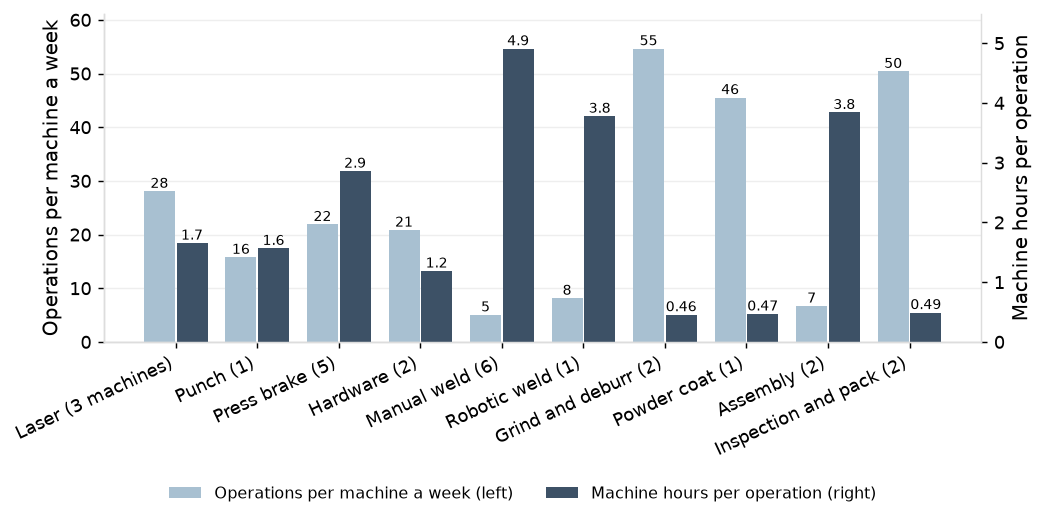
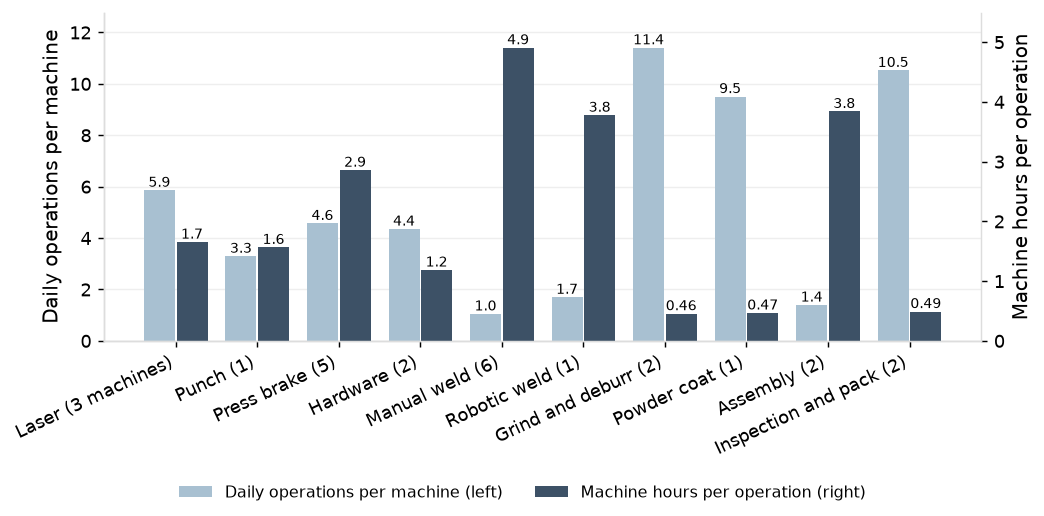
Capacity report: Section 1 wording, daily floor activity and the utilization trend layout

diff --git a/docs/reports/capacity_constraints_and_setups.html b/docs/reports/capacity_constraints_and_setups.html
@@ -57,20 +57,20 @@ nav.toc a.sub { font-size: 12px; padding-left: 22px; }
 <body><div class="page-header"><h1>Report: Capacity, Constraints and Setups</h1><div class="sub">Created by Brian Davis, 2026</div></div>
 <div class="layout"><nav class="toc"><div class="toc-title">Contents</div><a href="#f1">1. Capacity Across the Shop</a><a href="#f2">2. Load and Queue Time</a><a href="#f3">3. Setups Against Standard</a><a href="#f4">4. Run Standards</a><a href="#appendix">Appendix</a></nav>
 <main class="content"><h2 id='f1'>1. Capacity Across the Shop</h2>
-<p>The shop's floor consists of ten work centers and 25 machines. The floor activity (operations per machine a week and hours per operation) in routing order is shown below. The grind and deburr, inspection and pack, and powder coat stations run the highest number of operations per machine a week while averaging the shortest amount of time per operation (0.46 to 0.49 hours), and the manual weld bays, assembly and the robotic weld cell run the fewest operations while averaging the longest time (3.8 to 4.9 hours).</p>
-<div class='chart-title'>Floor Activity by Work Center, 2025</div><img alt="Floor Activity by Work Center, 2025" src="../figures/capacity_floor_activity.png?v=7b83e9b6">
-<p>The press brakes consistently run at the highest utilization of any work center, followed by the robotic weld cell.</p>
-<div class='chart-title'>Average monthly utilization by work center, 2023 to 2025</div><img alt="Average monthly utilization by work center, 2023 to 2025" src="../figures/capacity_utilization_trend.png?v=43a5c9c1">
-<p>In 2025, the press brakes ran at 91% utilization against 97% uptime, and this 6-point gap was the smallest production capacity buffer of any work center. The robotic weld cell ran at 83% utilization against 97% uptime, a 14-point buffer. Running this close to capacity leaves the brakes and the weld cell fewer idle hours to absorb work, compared to the other work stations.</p>
-<p>Uptime was 96% to 98% at every work center; for purposes of this report, uptime treats setup as running time, not downtime. See Appendix Table <a href='#t1'>1</a> for additional detail.</p>
+<p>The shop's floor consists of 25 machines across ten work centers. The floor activity (daily operations per machine and hours per operation) in routing order is shown below.</p>
+<div class='chart-title'>Floor Activity by Work Center, 2025</div><img alt="Floor Activity by Work Center, 2025" src="../figures/capacity_floor_activity.png?v=9bbcae61">
+<p>The press brakes consistently run at the highest utilization of any work center (average of 83% 2023-2025), followed by the robotic weld cell (71%). Released work grew 20% from 2023 to 2025 (4,315 to 5,157 jobs a year; brake standard hours up 21%) across the same set of machines and shifts, accounting for the general positive trend in utilization over the past three years.</p>
+<div class='chart-title'>Average monthly utilization by work center, 2023 to 2025</div><img alt="Average monthly utilization by work center, 2023 to 2025" src="../figures/capacity_utilization_trend.png?v=d867d6bd">
+<h3 id='f1_1'>Capacity Constraints</h3>
+<p>In 2025, the press brakes ran at 91% average utilization and the robotic weld cell at 83%. Against each station's 97% uptime, the average production capacity buffer was only 6 and 14 points, the smallest of all work centers. See Appendix Table <a href='#t1'>1</a> for additional detail.</p>
 <div class='chart-title'>Utilization and Machine Uptime by Work Center</div><img alt="Utilization and Machine Uptime by Work Center" src="../figures/constraint_utilization_uptime.png?v=398f0550">
 <p>With so little buffer, an ordinary heavy week can take the brakes and the weld cell to maximum utilization: they ran at or above 95% utilization in 46% and 38% of weeks in 2025, far more often than any other work center. See Appendix Table <a href='#t2'>2</a> for additional detail.</p>
 <div class='chart-title'>Share of weeks at or above 95% utilization, 2025</div><img alt="Share of weeks at or above 95% utilization, 2025" src="../figures/capacity_hot_week_share.png?v=5980e1e8">
-<p>Weeks at maximum utilization result in higher queue times. Across every work center that reached above 95% utilization in a week, average queue time was sharply higher than in the other weeks. The gap is smallest at the press brakes (2.4 days against 1.7, 1.4x) not because their wait is least sensitive to load but because their other weeks are also heavily loaded, averaging 78% utilization from 2023 to 2025, so the comparison is narrower than other work centers.</p>
+<p>At each station, average queue time was sharply higher when it was operating near maximum utilization compared to the other weeks of the year. The gap is smallest at the press brakes (2.4 days against 1.7, 1.4x) not because their wait is least sensitive to load but because their other weeks are also heavily loaded, so the comparison is narrower than other work centers. <a href='#f2'>Section 2</a> lays out the sensitivity of queue time against load at the press brakes and robotic weld stations.</p>
 <div class='chart-title'>Queue Time in Weeks at or Above 95% Utilization vs. Other Weeks, 2023 to 2025</div><img alt="Queue Time in Weeks at or Above 95% Utilization vs. Other Weeks, 2023 to 2025" src="../figures/capacity_queue_in_hot_weeks_year.png?v=cd2298d2">
 <p>Throughout 2025, jobs spent 36,318 days waiting at a work center after their first operation. The press brake station accounted for 56% of those days, which is a function of its consistently high utilization, as well as its volume of operations. There were nearly 5,700 brake operations in 2025. The robotic weld cell, which saw similar queue times to the press brakes (3.64 days per operation against 3.54), accounted for less than 5% of queue days, because it saw only 423 operations in 2025.</p>
 <div class='chart-title'>Share of queue days by work center, 2025</div><img alt="Share of queue days by work center, 2025" src="../figures/capacity_share_of_queue_days.png?v=cc48b974">
-<p>The press brakes are therefore the shop's constraint on three counts: the highest utilization with the least buffer, the most weeks at the ceiling, and more than half of all queue days. The robotic weld cell shares the first two and constrains the enclosure work that crosses it. <a href='#f2'>Section 2</a> examines how queue time builds at these two work centers and what that makes the levers; the other work centers, which are either rarely full or whose waits are set by the dispatch list rather than by load, are covered where they bear on it.</p>
+<p>The press brakes are therefore the shop's primary constraint on three counts: the highest utilization with the least buffer, the most weeks spent at maximum utilization, and more than half of all queue days. The robotic weld cell shares the first two and constrains the enclosure work that crosses it. The next section examines these stations in more detail.</p>
 <h2 id='f2'>2. Load and Queue Time</h2>
 <p><a href='#f1'>Section 1</a> showed that queue time rises when a work center is full and that the press brakes and the robotic weld cell are the two that are full most often and carry the waiting that costs the shop days. This section shows how queue time builds at each as load rises, and what that makes the lever. The curve is the queue time expected at each level of utilization for the number of machines at the work center, fitted on rolling 13-week windows from 2023 to 2025 and drawn only over the range of utilization the work center has run at in those windows; for the brakes the fit explains 45% of the variation in the windowed queue with a rank correlation of 0.88, while a single week's queue carries the backlog of the weeks before it, which is why the fit is made on windows rather than weeks.</p>
 <h3 id='f2_1'>The press brakes</h3>

diff --git a/docs/index.html b/docs/index.html
@@ -34,5 +34,5 @@ nav.toc a { color: var(--accent); text-decoration: none; margin-right: 14px; }
 </style></head>
 <body><div class="page">
 <header class="doc"><div class="kicker">Deliverables</div><h1>Operations analytics</h1><div class="meta">Custom sheet-metal fabrication job shop, about 120 employees, one plant.<br>Eight improvement projects and an operations dashboard on the shop's records from January 2023 to December 2025. Sources: ERP, shop-floor data collection, QMS, maintenance and HR exports (batch 20261003T152921Z-20250101).</div><div class="credit">Created by Brian Davis, 2026</div></header>
-<table class="data"><thead><tr><th>Report</th><th>Question</th><th>Finding</th><th>Deliverable</th></tr></thead><tbody><tr><td class="">Flow and On-time Delivery</td><td class="">Where does the lead time go, and does the floor's WIP match the quoted lead times? What makes jobs late, and do the shop's late-reason codes say so?</td><td class="">Queue at the brakes is 28% of lead time and the stage that separates late jobs from on-time jobs (6.98 days against 2.71); the median job ships in 11.2 working days against an average quoted lead time of 12.4, 9.2 in Q2-Q4. In 2025, jobs waiting at work centers (i.e., queue constraints) accounted for 44% of the 4,647 lost days, while jobs that were released late accounted for 17%, and jobs that waited on material and outside processing accounted for 7% and 3%, respectively.</td><td class=""><a href='reports/lead_time_and_late_jobs.html'>Report</a></td></tr><tr><td class="">Capacity, Constraints and Setups</td><td class="">Which work centers run hot, and how do their queues respond to load? What do setups cost at the brakes, and where is the overrun?</td><td class="">In 2025, the press brakes ran at 91% utilization against 97% uptime, and this 6-point gap was the smallest production capacity buffer of any work center. The robotic weld cell ran at 83% utilization against 97% uptime, a 14-point buffer. Brake setups ran 6,077 hours against 4,235 standard in 2025: 1,842 hours over, 35 a week, 11% of brake machine time.</td><td class=""><a href='reports/capacity_constraints_and_setups.html'>Report</a></td></tr><tr><td class="">Options Tested</td><td class="">Do release control and dispatch rules help, and what does? Do the capital options pay back?</td><td class="">A WIP cap and dispatch rules do not help; the setup program, a second shift on the robotic weld cell and planned Saturdays from November through February take the year to 88.0% on time, up 6.0 points (5.0 to 6.9), and Q2-Q4 to 91.8%. On overtime and labor alone no option pays back within the 7-year horizon, and the no-capital package is net negative ($70,000 a year, the weld cell's second shift). With half the released brake hours sold, the robotic cell pays back in 1.6 years, the tool changer on B3 in 3.9, the laser tower not at all.</td><td class=""><a href='reports/options_tested.html'>Report</a></td></tr><tr><td class="">Quoting and Early Warning from Load</td><td class="">What lead time should be quoted, and what wins quotes? Which weekly measures move before on-time delivery does?</td><td class="">The fixed quote is met on 53.0% of non-rush jobs for the year and 70.5% in Q2-Q4; a quote by routing class and brake backlog at release, never below the fixed quote, is met on 67.0% and 82.1% out of sample and lengthens 43.6% and 33.9% of promised lead times. The on-time start rate correlates +0.62 with on-time delivery 1 week later, against a 95th percentile of +0.24 on shuffled series and +0.21 on shifted series. It moved before all four declines in on-time delivery; no other weekly measure leads in ordinary weeks.</td><td class=""><a href='reports/quoting_and_early_warning.html'>Report</a></td></tr></tbody></table><p><a href='dashboard/index.html'>Operations dashboard</a></p>
+<table class="data"><thead><tr><th>Report</th><th>Question</th><th>Finding</th><th>Deliverable</th></tr></thead><tbody><tr><td class="">Flow and On-time Delivery</td><td class="">Where does the lead time go, and does the floor's WIP match the quoted lead times? What makes jobs late, and do the shop's late-reason codes say so?</td><td class="">Queue at the brakes is 28% of lead time and the stage that separates late jobs from on-time jobs (6.98 days against 2.71); the median job ships in 11.2 working days against an average quoted lead time of 12.4, 9.2 in Q2-Q4. In 2025, jobs waiting at work centers (i.e., queue constraints) accounted for 44% of the 4,647 lost days, while jobs that were released late accounted for 17%, and jobs that waited on material and outside processing accounted for 7% and 3%, respectively.</td><td class=""><a href='reports/lead_time_and_late_jobs.html'>Report</a></td></tr><tr><td class="">Capacity, Constraints and Setups</td><td class="">Which work centers run hot, and how do their queues respond to load? What do setups cost at the brakes, and where is the overrun?</td><td class="">In 2025, the press brakes ran at 91% average utilization and the robotic weld cell at 83%. Against each station's 97% uptime, the average production capacity buffer was only 6 and 14 points, the smallest of all work centers. Brake setups ran 6,077 hours against 4,235 standard in 2025: 1,842 hours over, 35 a week, 11% of brake machine time.</td><td class=""><a href='reports/capacity_constraints_and_setups.html'>Report</a></td></tr><tr><td class="">Options Tested</td><td class="">Do release control and dispatch rules help, and what does? Do the capital options pay back?</td><td class="">A WIP cap and dispatch rules do not help; the setup program, a second shift on the robotic weld cell and planned Saturdays from November through February take the year to 88.0% on time, up 6.0 points (5.0 to 6.9), and Q2-Q4 to 91.8%. On overtime and labor alone no option pays back within the 7-year horizon, and the no-capital package is net negative ($70,000 a year, the weld cell's second shift). With half the released brake hours sold, the robotic cell pays back in 1.6 years, the tool changer on B3 in 3.9, the laser tower not at all.</td><td class=""><a href='reports/options_tested.html'>Report</a></td></tr><tr><td class="">Quoting and Early Warning from Load</td><td class="">What lead time should be quoted, and what wins quotes? Which weekly measures move before on-time delivery does?</td><td class="">The fixed quote is met on 53.0% of non-rush jobs for the year and 70.5% in Q2-Q4; a quote by routing class and brake backlog at release, never below the fixed quote, is met on 67.0% and 82.1% out of sample and lengthens 43.6% and 33.9% of promised lead times. The on-time start rate correlates +0.62 with on-time delivery 1 week later, against a 95th percentile of +0.24 on shuffled series and +0.21 on shifted series. It moved before all four declines in on-time delivery; no other weekly measure leads in ordinary weeks.</td><td class=""><a href='reports/quoting_and_early_warning.html'>Report</a></td></tr></tbody></table><p><a href='dashboard/index.html'>Operations dashboard</a></p>
 </div></body></html>

diff --git a/analytics/reports/capacity_constraints_and_setups.py b/analytics/reports/capacity_constraints_and_setups.py
@@ -45,6 +45,8 @@ ROUTING = ["laser", "punch", "press_brake", "hardware", "weld", "robotic_weld", 
 ACTIVITY = pd.DataFrame({"operations": X["ops"].groupby("work_center").size(), "hours": C.UY["machine"], "machines": C.UY["machines"]})
 ACTIVITY["ops_per_week"] = ACTIVITY["operations"] / SA.WEEKS
 ACTIVITY["ops_per_machine_week"] = ACTIVITY["ops_per_week"] / ACTIVITY["machines"]
+ACTIVITY["weekdays"] = X["uw"][X["uw"]["week_year"] == YEAR].groupby("work_center")["weekdays"].sum()
+ACTIVITY["ops_per_machine_day"] = ACTIVITY["operations"] / ACTIVITY["machines"] / ACTIVITY["weekdays"]
 ACTIVITY["hours_per_operation"] = ACTIVITY["hours"] / ACTIVITY["operations"]
 QUEUE_AXIS = "Queue time, working days per operation"
 P = lambda x: pct(x, 0)
@@ -74,21 +76,21 @@ def darker(color, by=0.62):
 
 
 def fig_activity():
-    """Operations per machine a week (left axis) and machine hours per operation (right axis), work centers in routing order."""
+    """Operations per machine a working day (left axis) and machine hours per operation (right axis), work centers in routing order."""
     d = ACTIVITY.loc[ROUTING]
     x = np.arange(len(d))
     f, ax = fig(h=4.0)
     ax2 = ax.twinx()
-    ops, hrs = sig(d["ops_per_machine_week"].to_numpy(dtype=float)), sig(d["hours_per_operation"].to_numpy(dtype=float))
-    ax.bar(x - 0.2, ops, width=0.38, color=LIGHT_BLUE, label="Operations per machine a week (left)")
+    ops, hrs = sig(d["ops_per_machine_day"].to_numpy(dtype=float)), sig(d["hours_per_operation"].to_numpy(dtype=float))
+    ax.bar(x - 0.2, ops, width=0.38, color=LIGHT_BLUE, label="Daily operations per machine (left)")
     ax2.bar(x + 0.2, hrs, width=0.38, color=BRAND_BLUE, label="Machine hours per operation (right)")
     for xi, vi in zip(x, ops):
-        ax.text(xi - 0.2, vi, f"{vi:.0f}", ha="center", va="bottom", fontsize=8)
+        ax.text(xi - 0.2, vi, f"{vi:.1f}", ha="center", va="bottom", fontsize=8)
     for xi, vi in zip(x, hrs):
         ax2.text(xi + 0.2, vi, f"{vi:.2f}" if vi < 1 else f"{vi:.1f}", ha="center", va="bottom", fontsize=8)
     ax.set_xticks(x)
     ax.set_xticklabels([f"{WC[w]} ({int(d.loc[w, 'machines'])}{' machines' if w == 'laser' else ''})" for w in d.index], rotation=25, ha="right")
-    ax.set_ylabel("Operations per machine a week")
+    ax.set_ylabel("Daily operations per machine")
     ax2.set_ylabel("Machine hours per operation")
     ax.set_ylim(0, float(ops.max()) * 1.12)
     ax2.set_ylim(0, float(hrs.max()) * 1.12)
@@ -102,7 +104,7 @@ def fig_activity():
 
 
 def fig_utilization_trend():
-    """Monthly utilization for each work center as a three-month trailing average, each line named where it ends."""
+    """Monthly utilization for each work center as a three-month trailing average, each line named beside the plot where it ends."""
     w = X["uw"].assign(month=lambda d: (d["week_start"] + pd.Timedelta(days=3)).dt.to_period("M"))
     g = w.groupby(["month", "work_center"])[["machine_hours", "scheduled_hours", "downtime_hours"]].sum().unstack()
     # hours pooled over the month and the two before it, so each point is the utilization of a quarter-long window ending in that month
@@ -110,26 +112,26 @@ def fig_utilization_trend():
     d = (r["machine_hours"] / (r["scheduled_hours"] - r["downtime_hours"]) * 100)
     d = d[d.index >= pd.Period("2023-01")].dropna()
     x = np.arange(len(d))
-    f, ax = fig(h=4.6)
+    f, ax = fig(h=3.9)
     others = [c for c in C.UY.sort_values("utilization", ascending=False).index if c not in LEAD_TWO]
     color = dict(zip(others, TREND_COLORS), press_brake=BRAND_BLUE, robotic_weld=WELD_CELL)
     for c in others + LEAD_TWO:
         ax.plot(x, sig(d[c].to_numpy(dtype=float)), color=color[c], linewidth=2.4 if c in LEAD_TWO else 1.6, zorder=3 if c in LEAD_TWO else 2)
-    # the names at the right, moved apart where two lines end close together
+    ax.set_xlim(-0.6, x[-1] + 0.4)
+    ax.set_ylim(30, 100)
+    # the names sit to the right of the plot area, clear of the gridlines, moved apart where two lines end close together
     ends = d.iloc[-1].sort_values()
-    placed, gap = [], 3.0
+    placed, gap = [], 3.6
     for c, v in ends.items():
         y = float(v) if not placed else max(float(v), placed[-1] + gap)
         placed.append(y)
-        ax.text(x[-1] + 0.5, y, f"{WC[c]}, {v:.0f}%", ha="left", va="center", fontsize=8.5, color=color[c] if c in LEAD_TWO else darker(color[c]),
-                fontweight="bold" if c in LEAD_TWO else None)
-    first = [k for k in x if d.index[k].month in (1, 7)]
-    ax.set_xticks(first)
-    ax.set_xticklabels([d.index[k].strftime("%b %Y") for k in first])
-    ax.set_xlim(-0.6, x[-1] + 9.5)
-    ax.set_ylim(20, 100)
+        ax.text(x[-1] + 0.9, y, f"{WC[c]}, {v:.0f}%", ha="left", va="center", fontsize=8.5, color=color[c] if c in LEAD_TWO else darker(color[c]),
+                fontweight="bold" if c in LEAD_TWO else None, clip_on=False)
+    ticks = [k for k in x if d.index[k].month in (1, 7)] + [int(x[-1])]
+    ax.set_xticks(ticks)
+    ax.set_xticklabels([d.index[k].strftime("%b %Y") for k in ticks])
     ax.yaxis.set_major_formatter(lambda t, _: f"{t:.0f}%")
-    f.tight_layout()
+    f.subplots_adjust(left=0.07, right=0.80, top=0.97, bottom=0.12)
     return save(f, "capacity_utilization_trend", "Average monthly utilization by work center, 2023 to 2025")
 
 
@@ -452,27 +454,27 @@ def build():
     # 1 ── capacity across the shop
     b.append("<h2 id='f1'>1. Capacity Across the Shop</h2>")
     act = ACTIVITY
-    assert list(UY["utilization"].sort_values(ascending=False).index[:2]) == LEAD_TWO
-    busy, slow = act.sort_values("ops_per_machine_week", ascending=False).index[:3], act.sort_values("ops_per_machine_week").index[:3]
-    assert set(busy) == set(act.sort_values("hours_per_operation").index[:3]) == {"grind_deburr", "inspection_pack", "powder_coat"}
-    assert set(slow) == set(act.sort_values("hours_per_operation", ascending=False).index[:3]) == {"weld", "assembly", "robotic_weld"}
-    b.append(f"<p>The shop's floor consists of ten work centers and {n0(act['machines'].sum())} machines. The floor activity (operations per machine a week and "
-             f"hours per operation) in routing order is shown below. The grind and deburr, inspection and pack, and powder coat stations run the highest number of "
-             f"operations per machine a week while averaging the shortest amount of time per operation "
-             f"({rng(act.loc[busy, 'hours_per_operation'].min(), act.loc[busy, 'hours_per_operation'].max())} hours), and the manual weld bays, assembly and the "
-             f"robotic weld cell run the fewest operations while averaging the longest time "
-             f"({rng(act.loc[slow, 'hours_per_operation'].min(), act.loc[slow, 'hours_per_operation'].max(), d1)} hours).</p>")
+    b.append(f"<p>The shop's floor consists of {n0(act['machines'].sum())} machines across ten work centers. The floor activity (daily operations per machine and "
+             f"hours per operation) in routing order is shown below.</p>")
     b.append(chart(f"Floor Activity by Work Center, {YEAR}", fig_activity()))
-    b.append("<p>The press brakes consistently run at the highest utilization of any work center, followed by the robotic weld cell.</p>")
+    all_years = X["uw"][X["uw"]["week_year"].between(YEAR - 2, YEAR)]
+    avg = {w: SC.pooled_utilization(all_years[all_years["work_center"] == w]) for w in UY.index}
+    assert sorted(avg, key=avg.get, reverse=True)[:2] == LEAD_TWO
+    rel = q("select year(quarter_start) as y, sum(releases) as releases, sum(brake_std_hours) as brake_hours "
+                                           "from marts.mart_releases_by_quarter group by 1 order by 1").set_index("y")
+    b.append(f"<p>The press brakes consistently run at the highest utilization of any work center (average of {P(avg['press_brake'])} 2023-2025), followed by the "
+             f"robotic weld cell ({P(avg['robotic_weld'])}). Released work grew {P(rel.loc[YEAR, 'releases'] / rel.loc[YEAR - 2, 'releases'] - 1)} from {YEAR - 2} to "
+             f"{YEAR} ({n0(rel.loc[YEAR - 2, 'releases'])} to {n0(rel.loc[YEAR, 'releases'])} jobs a year; brake standard hours up "
+             f"{P(rel.loc[YEAR, 'brake_hours'] / rel.loc[YEAR - 2, 'brake_hours'] - 1)}) across the same set of machines and shifts, accounting for the general "
+             f"positive trend in utilization over the past three years.</p>")
     b.append(chart("Average monthly utilization by work center, 2023 to 2025", fig_utilization_trend()))
+
+    b.append("<h3 id='f1_1'>Capacity Constraints</h3>")
     gap = round(UY["uptime"] * 100) - round(UY["utilization"] * 100)
-    assert gap.idxmin() == "press_brake"
-    b.append(f"<p>In {YEAR}, the press brakes ran at {P(UY.loc['press_brake', 'utilization'])} utilization against {P(UY.loc['press_brake', 'uptime'])} uptime, and "
-             f"this {gap['press_brake']:.0f}-point gap was the smallest production capacity buffer of any work center. The robotic weld cell ran at "
-             f"{P(UY.loc['robotic_weld', 'utilization'])} utilization against {P(UY.loc['robotic_weld', 'uptime'])} uptime, a {gap['robotic_weld']:.0f}-point buffer. "
-             f"Running this close to capacity leaves the brakes and the weld cell fewer idle hours to absorb work, compared to the other work stations.</p>")
-    b.append(f"<p>Uptime was {P(UY['uptime'].min())} to {P(UY['uptime'].max())} at every work center; for purposes of this report, uptime treats setup as running "
-             f"time, not downtime. {T.see('util')}</p>")
+    assert list(gap.sort_values().index[:2]) == LEAD_TWO and P(UY.loc["press_brake", "uptime"]) == P(UY.loc["robotic_weld", "uptime"])
+    b.append(f"<p>In {YEAR}, the press brakes ran at {P(UY.loc['press_brake', 'utilization'])} average utilization and the robotic weld cell at "
+             f"{P(UY.loc['robotic_weld', 'utilization'])}. Against each station's {P(UY.loc['press_brake', 'uptime'])} uptime, the average production capacity buffer "
+             f"was only {gap['press_brake']:.0f} and {gap['robotic_weld']:.0f} points, the smallest of all work centers. {T.see('util')}</p>")
     b.append(titled(C.fig_util(), "Utilization and Machine Uptime by Work Center"))
     hot_share = (HY["hot_weeks"] / HY["weeks"]).sort_values(ascending=False)
     assert list(hot_share.index[:2]) == LEAD_TWO and hot_share.iloc[1] > 1.5 * hot_share.iloc[2]
@@ -485,11 +487,11 @@ def build():
     rest_of = X["uw"][X["uw"]["utilization"] < SC.HOT]
     other_load = {w: SC.pooled_utilization(rest_of[rest_of["work_center"] == w]) for w in hall.index}
     assert max(other_load, key=other_load.get) == "press_brake"
-    b.append(f"<p>Weeks at maximum utilization result in higher queue times. Across every work center that reached above 95% utilization in a week, average queue "
-             f"time was sharply higher than in the other weeks. The gap is smallest at the press brakes ({d1(hall.loc['press_brake', 'queue_hot'])} days against "
-             f"{d1(hall.loc['press_brake', 'queue_other'])}, {rise['press_brake']:.1f}x) not because their wait is least sensitive to load but because their other "
-             f"weeks are also heavily loaded, averaging {P(other_load['press_brake'])} utilization from 2023 to 2025, so the comparison is narrower than other work "
-             f"centers.</p>")
+    b.append(f"<p>At each station, average queue time was sharply higher when it was operating near maximum utilization compared to the other weeks of the year. The "
+             f"gap is smallest at the press brakes ({d1(hall.loc['press_brake', 'queue_hot'])} days against {d1(hall.loc['press_brake', 'queue_other'])}, "
+             f"{rise['press_brake']:.1f}x) not because their wait is least sensitive to load but because their other weeks are also heavily loaded, so the comparison "
+             f"is narrower than other work centers. <a href='#f2'>Section 2</a> lays out the sensitivity of queue time against load at the press brakes and robotic "
+             f"weld stations.</p>")
     b.append(chart("Queue Time in Weeks at or Above 95% Utilization vs. Other Weeks, 2023 to 2025", fig_hot_year()))
     assert QDAYS.index[0] == "press_brake" and QDAYS.loc["robotic_weld", "share_of_queue"] < 0.05 and QDAYS.loc["press_brake", "share_of_queue"] > 0.5
     b.append(f"<p>Throughout {YEAR}, jobs spent {n0(QDAYS['queue_days'].sum())} days waiting at a work center after their first operation. The press brake station "
@@ -499,10 +501,9 @@ def build():
              f"{d2(PY.loc['press_brake', 'queue_measured'])}), accounted for less than 5% of queue days, because it saw only "
              f"{n0(QDAYS.loc['robotic_weld', 'operations'])} operations in {YEAR}.</p>")
     b.append(chart(f"Share of queue days by work center, {YEAR}", fig_queue_days()))
-    b.append("<p>The press brakes are therefore the shop's constraint on three counts: the highest utilization with the least buffer, the most weeks at the ceiling, "
-             "and more than half of all queue days. The robotic weld cell shares the first two and constrains the enclosure work that crosses it. "
-             "<a href='#f2'>Section 2</a> examines how queue time builds at these two work centers and what that makes the levers; the other work centers, which are "
-             "either rarely full or whose waits are set by the dispatch list rather than by load, are covered where they bear on it.</p>")
+    b.append("<p>The press brakes are therefore the shop's primary constraint on three counts: the highest utilization with the least buffer, the most weeks spent at "
+             "maximum utilization, and more than half of all queue days. The robotic weld cell shares the first two and constrains the enclosure work that crosses "
+             "it. The next section examines these stations in more detail.</p>")
 
     # 2 ── load and queue time
     b.append("<h2 id='f2'>2. Load and Queue Time</h2>")

diff --git a/analytics/site.py b/analytics/site.py
@@ -37,7 +37,7 @@ def _lead_time():
 
 
 def _capacity():
-    load = re.search(r"In 2025, the press brakes ran at .*? a \d+-point buffer\.", section_text(CAPACITY, "f1")).group(0)
+    load = re.search(r"In 2025, the press brakes ran at .*? the smallest of all work centers\.", section_text(CAPACITY, "f1_1")).group(0)
     hours, standard, over, week, share = re.search(r"the brakes ran ([\d,]+) hours against ([\d,]+) standard, ([\d,]+) over, ([\d,]+) a week, (\d+%) of brake machine time",
                                                    section_text(CAPACITY, "f3")).groups()
     return f"{load} Brake setups ran {hours} hours against {standard} standard in 2025: {over} hours over, {week} a week, {share} of brake machine time."

diff --git a/README.md b/README.md
@@ -23,7 +23,7 @@ The engagement put the ERP order and quote records beside the MES operation time
 | Report | Question | Finding | Deliverable |
 |---|---|---|---|
 | Flow and On-time Delivery | Where does the lead time go, and does the floor's WIP match the quoted lead times? What makes jobs late, and do the shop's late-reason codes say so? | Queue at the brakes is 28% of lead time and the stage that separates late jobs from on-time jobs (6.98 days against 2.71); the median job ships in 11.2 working days against an average quoted lead time of 12.4, 9.2 in Q2-Q4. In 2025, jobs waiting at work centers (i.e., queue constraints) accounted for 44% of the 4,647 lost days, while jobs that were released late accounted for 17%, and jobs that waited on material and outside processing accounted for 7% and 3%, respectively. | [report](https://brimsystems.github.io/mfg-operations-analytics/docs/reports/lead_time_and_late_jobs.html) |
-| Capacity, Constraints and Setups | Which work centers run hot, and how do their queues respond to load? What do setups cost at the brakes, and where is the overrun? | In 2025, the press brakes ran at 91% utilization against 97% uptime, and this 6-point gap was the smallest production capacity buffer of any work center. The robotic weld cell ran at 83% utilization against 97% uptime, a 14-point buffer. Brake setups ran 6,077 hours against 4,235 standard in 2025: 1,842 hours over, 35 a week, 11% of brake machine time. | [report](https://brimsystems.github.io/mfg-operations-analytics/docs/reports/capacity_constraints_and_setups.html) |
+| Capacity, Constraints and Setups | Which work centers run hot, and how do their queues respond to load? What do setups cost at the brakes, and where is the overrun? | In 2025, the press brakes ran at 91% average utilization and the robotic weld cell at 83%. Against each station's 97% uptime, the average production capacity buffer was only 6 and 14 points, the smallest of all work centers. Brake setups ran 6,077 hours against 4,235 standard in 2025: 1,842 hours over, 35 a week, 11% of brake machine time. | [report](https://brimsystems.github.io/mfg-operations-analytics/docs/reports/capacity_constraints_and_setups.html) |
 | Options Tested | Do release control and dispatch rules help, and what does? Do the capital options pay back? | A WIP cap and dispatch rules do not help; the setup program, a second shift on the robotic weld cell and planned Saturdays from November through February take the year to 88.0% on time, up 6.0 points (5.0 to 6.9), and Q2-Q4 to 91.8%. On overtime and labor alone no option pays back within the 7-year horizon, and the no-capital package is net negative ($70,000 a year, the weld cell's second shift). With half the released brake hours sold, the robotic cell pays back in 1.6 years, the tool changer on B3 in 3.9, the laser tower not at all. | [report](https://brimsystems.github.io/mfg-operations-analytics/docs/reports/options_tested.html) |
 | Quoting and Early Warning from Load | What lead time should be quoted, and what wins quotes? Which weekly measures move before on-time delivery does? | The fixed quote is met on 53.0% of non-rush jobs for the year and 70.5% in Q2-Q4; a quote by routing class and brake backlog at release, never below the fixed quote, is met on 67.0% and 82.1% out of sample and lengthens 43.6% and 33.9% of promised lead times. The on-time start rate correlates +0.62 with on-time delivery 1 week later, against a 95th percentile of +0.24 on shuffled series and +0.21 on shifted series. It moved before all four declines in on-time delivery; no other weekly measure leads in ordinary weeks. | [report](https://brimsystems.github.io/mfg-operations-analytics/docs/reports/quoting_and_early_warning.html) |
 
